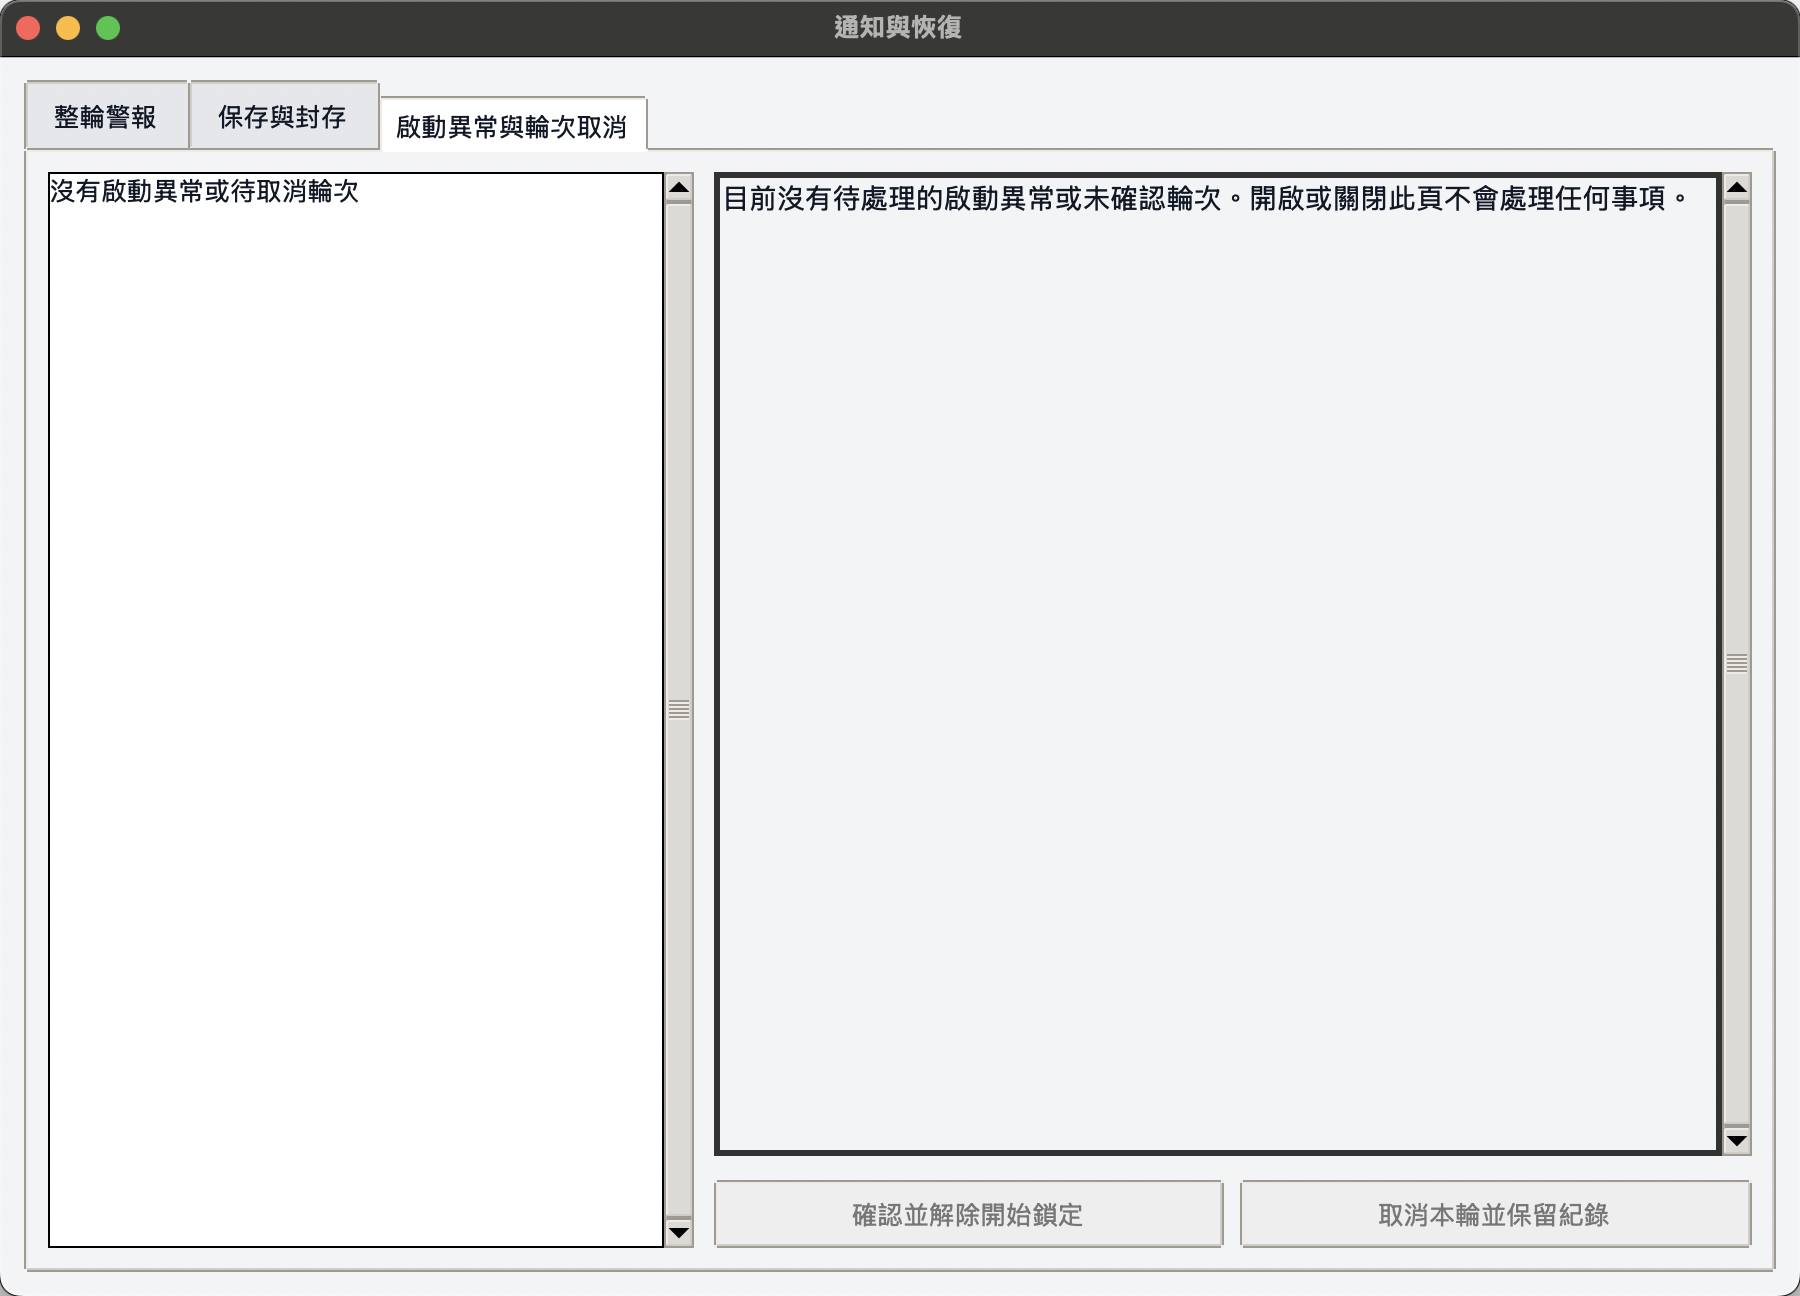
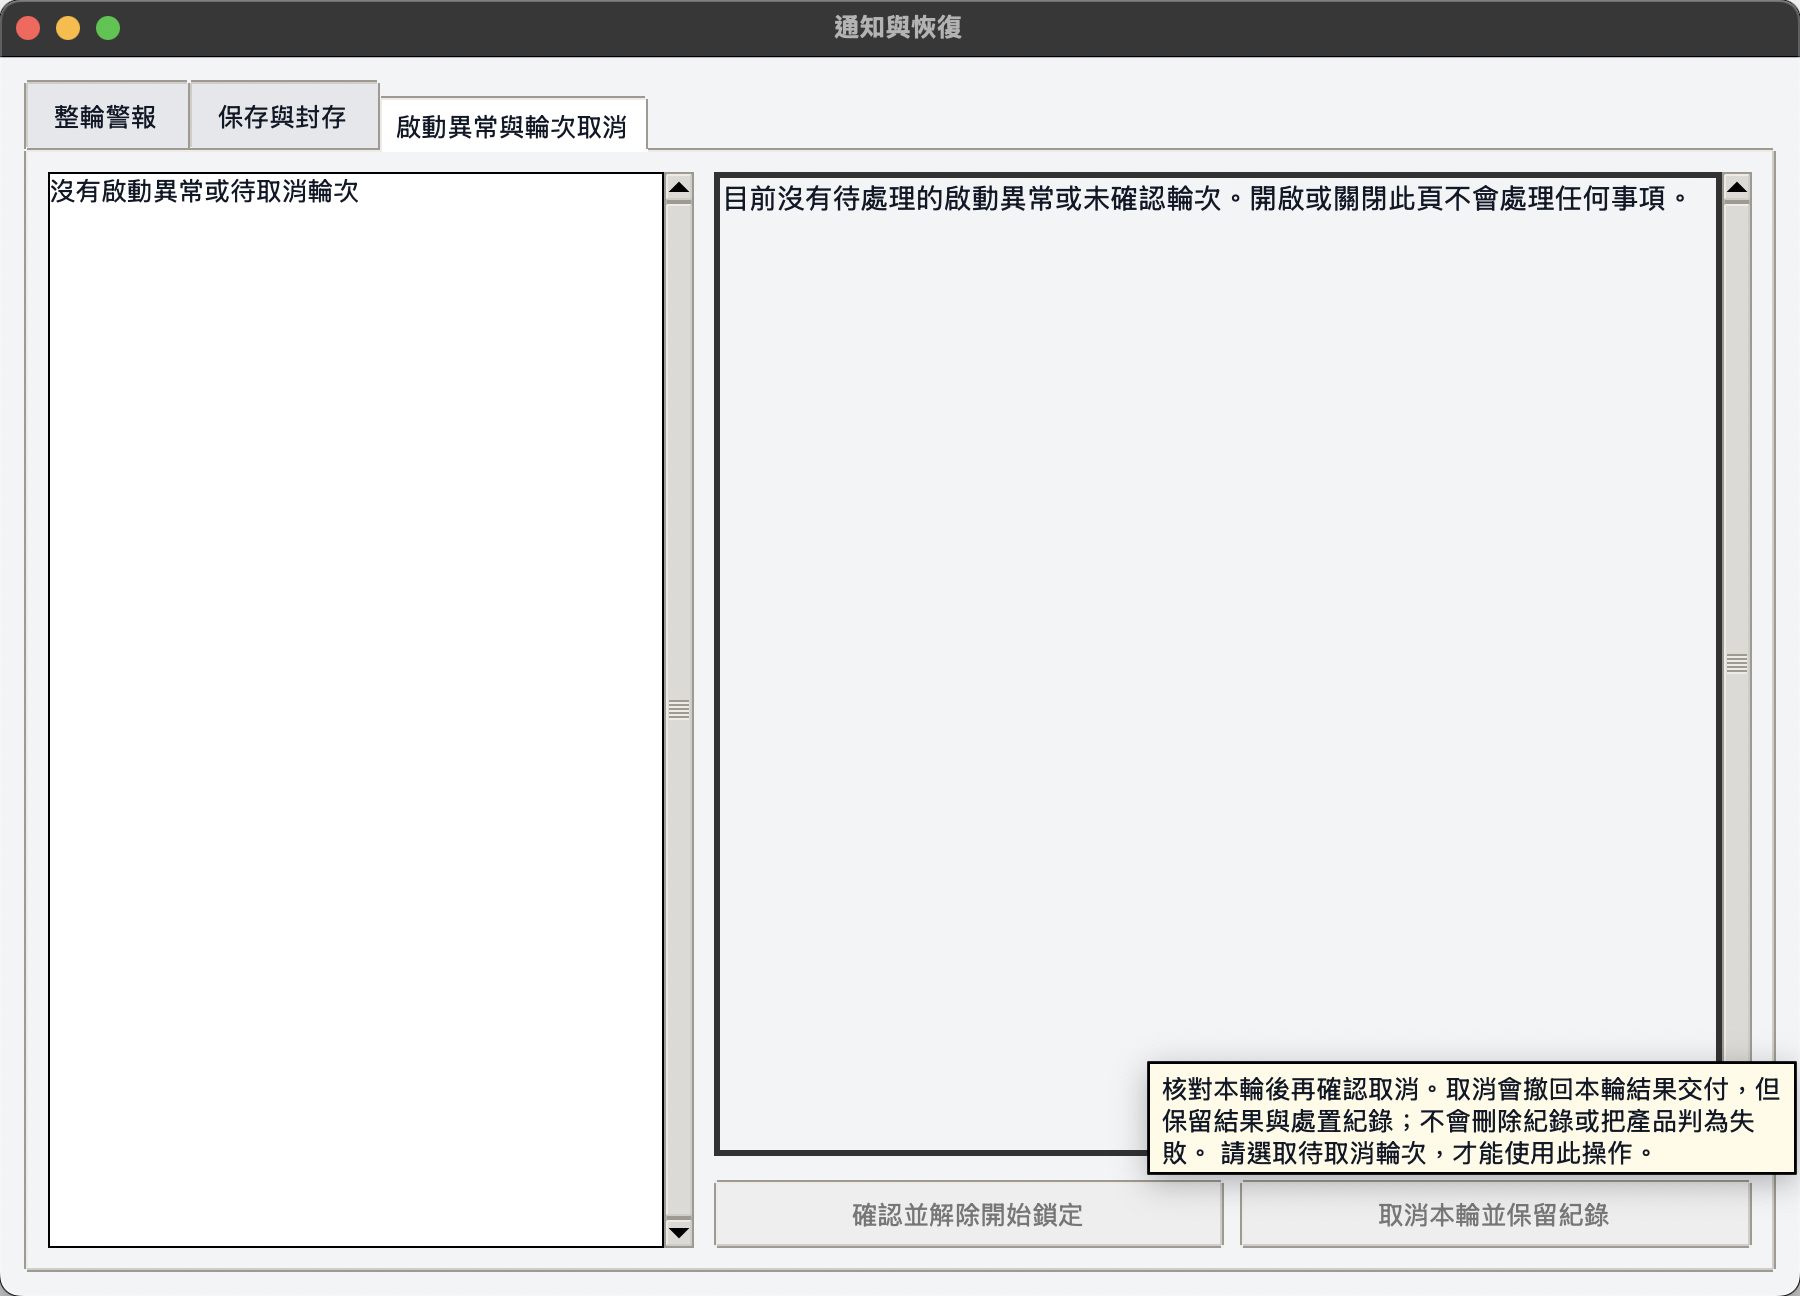
test(hmi): capture translated disabled cancellation hint reliably

Changed region(s): [[0.6222, 0.8025, 1.0, 0.9259]]

diff --git a/B518 Log Solution/tests/test_log_solution_ui.py b/B518 Log Solution/tests/test_log_solution_ui.py
@@ -350,7 +350,7 @@ def capture_tk_content_view_evidence(window, key, widgets, output_dir=None):
     }
 
 
-def capture_native_window_with_hint(window, filename):
+def capture_native_window_with_hint(window, filename, expected_hint=None):
     """Capture the real App window and its on-screen tooltip in one native frame."""
     evidence_value = os.environ.get("B518_TK_EVIDENCE_DIR")
     if not evidence_value:
@@ -359,24 +359,42 @@ def capture_native_window_with_hint(window, filename):
     from Foundation import NSURL
 
     window.lift()
-    for child in window.winfo_children():
-        if isinstance(child, tk.Toplevel) and child.overrideredirect():
-            child.lift()
-    window.update()
+    deadline = time.monotonic() + 3
+    while True:
+        window.update()
+        hint_window = expected_hint._window if expected_hint is not None else None
+        if expected_hint is None or (hint_window is not None and hint_window.winfo_viewable()):
+            break
+        if time.monotonic() >= deadline:
+            raise AssertionError("expected hint is not mapped: {}".format(filename))
+        time.sleep(.01)
+    hint_windows = [child for child in window.winfo_children()
+                    if isinstance(child, tk.Toplevel) and child.overrideredirect()
+                    and child.winfo_viewable()]
+    if expected_hint is not None and hint_window not in hint_windows:
+        raise AssertionError("expected hint is missing: {}".format(filename))
+    for child in hint_windows:
+        child.lift()
+    # Let Aqua paint the resized/translated native tooltip before capturing it.
+    paint_deadline = time.monotonic() + .2
+    while time.monotonic() < paint_deadline:
+        window.update()
+        time.sleep(.01)
+    native_number = native_window_for_capture(window).windowNumber()
+    numbers = [native_number] + [native_window_for_capture(child).windowNumber()
+                                 for child in hint_windows]
+    # Resolve all native IDs before enumerating WindowServer; resolving a newly
+    # mapped hint can itself pump Aqua and invalidate an earlier enumeration.
     native_windows = Quartz.CGWindowListCopyWindowInfo(
         Quartz.kCGWindowListOptionOnScreenOnly, Quartz.kCGNullWindowID)
-    native_number = native_window_for_capture(window).windowNumber()
-    native_window = next((item for item in native_windows
-                          if item.get(Quartz.kCGWindowOwnerPID) == os.getpid()
-                          and item.get(Quartz.kCGWindowNumber) == native_number), None)
-    if native_window is None:
-        raise AssertionError("missing native window: {}".format(window.title()))
-    selected = [native_window]
-    for child in window.winfo_children():
-        if isinstance(child, tk.Toplevel) and child.overrideredirect() and child.winfo_viewable():
-            number = native_window_for_capture(child).windowNumber()
-            selected.extend(item for item in native_windows
-                            if item.get(Quartz.kCGWindowNumber) == number)
+    selected = [item for item in native_windows
+                if item.get(Quartz.kCGWindowOwnerPID) == os.getpid()
+                and item.get(Quartz.kCGWindowNumber) in numbers]
+    captured_numbers = {item[Quartz.kCGWindowNumber] for item in selected}
+    if set(numbers) != captured_numbers:
+        raise AssertionError("native capture is missing owner/hint windows: {}".format(filename))
+    native_window = next(item for item in selected
+                         if item[Quartz.kCGWindowNumber] == native_number)
     bounds = dict(native_window[Quartz.kCGWindowBounds])
     left = min(item[Quartz.kCGWindowBounds]["X"] for item in selected)
     top = min(item[Quartz.kCGWindowBounds]["Y"] for item in selected)
@@ -1448,7 +1466,10 @@ class LogSolutionUiTests(unittest.TestCase):
 
                 def capture_recovery_hover(key):
                     if evidence_root:
-                        capture_native_window_with_hint(app.recovery_window, key + ".png")
+                        visible_hint = _LocalizedControlHint._visible_hint
+                        self.assertIsNotNone(visible_hint)
+                        capture_native_window_with_hint(
+                            app.recovery_window, key + ".png", expected_hint=visible_hint)
 
                 retry_hint = app._recovery_control_hints[app.recovery_save_retry_button]
                 self.assertEqual(str(app.recovery_save_retry_button.cget("state")), "disabled")

diff --git a/B518 Log Solution/docs/refactoring/evidence/hc5/validation.md b/B518 Log Solution/docs/refactoring/evidence/hc5/validation.md
@@ -1,6 +1,14 @@
-# PR #117 第二輪修正驗證
+# PR #117 原生驗收與審查修正證據
 
 對應 #110、#105 D5／T16／T17，以及第二輪審查 S3、S4、R2。此文件記錄實作端驗證，供獨立審查複查。
+
+## 第三輪審查的單張影像補正
+
+第三輪審查（HEAD `ef51708133502cb869f15b918b996b7d0a5f4d6c`）確認其餘17張影像可讀，但繁中取消停用影像缺少提示。本輪已替換[該張影像](ui/hc5-round-cancel-disabled-zh-TW.png)，親看確認黃色提示全文、停用原因及必要操作均可見。
+
+擷取函式現在先等待預期提示映射及 Aqua 繪製、解析所有 native window ID，再取得最新 WindowServer 清單；若主視窗或任一提示未在擷取清單內，案例直接失敗。恢復中心 hover 擷取另外指定預期提示，避免只拍到主視窗仍判為通過。
+
+本輪重跑設定／恢復中心原生案例：1 passed、0 skipped，17.202秒。因共用擷取函式變更，重跑開始／取消、主頁、警報／衝突／關閉三案例：3 passed、0 skipped，39.057秒。`py_compile` 與 `git diff --check` 通過。沒有重做其餘已獨立通過的驗收；本輪修正待獨立複查。
 
 ## 修正與實際行為
 
